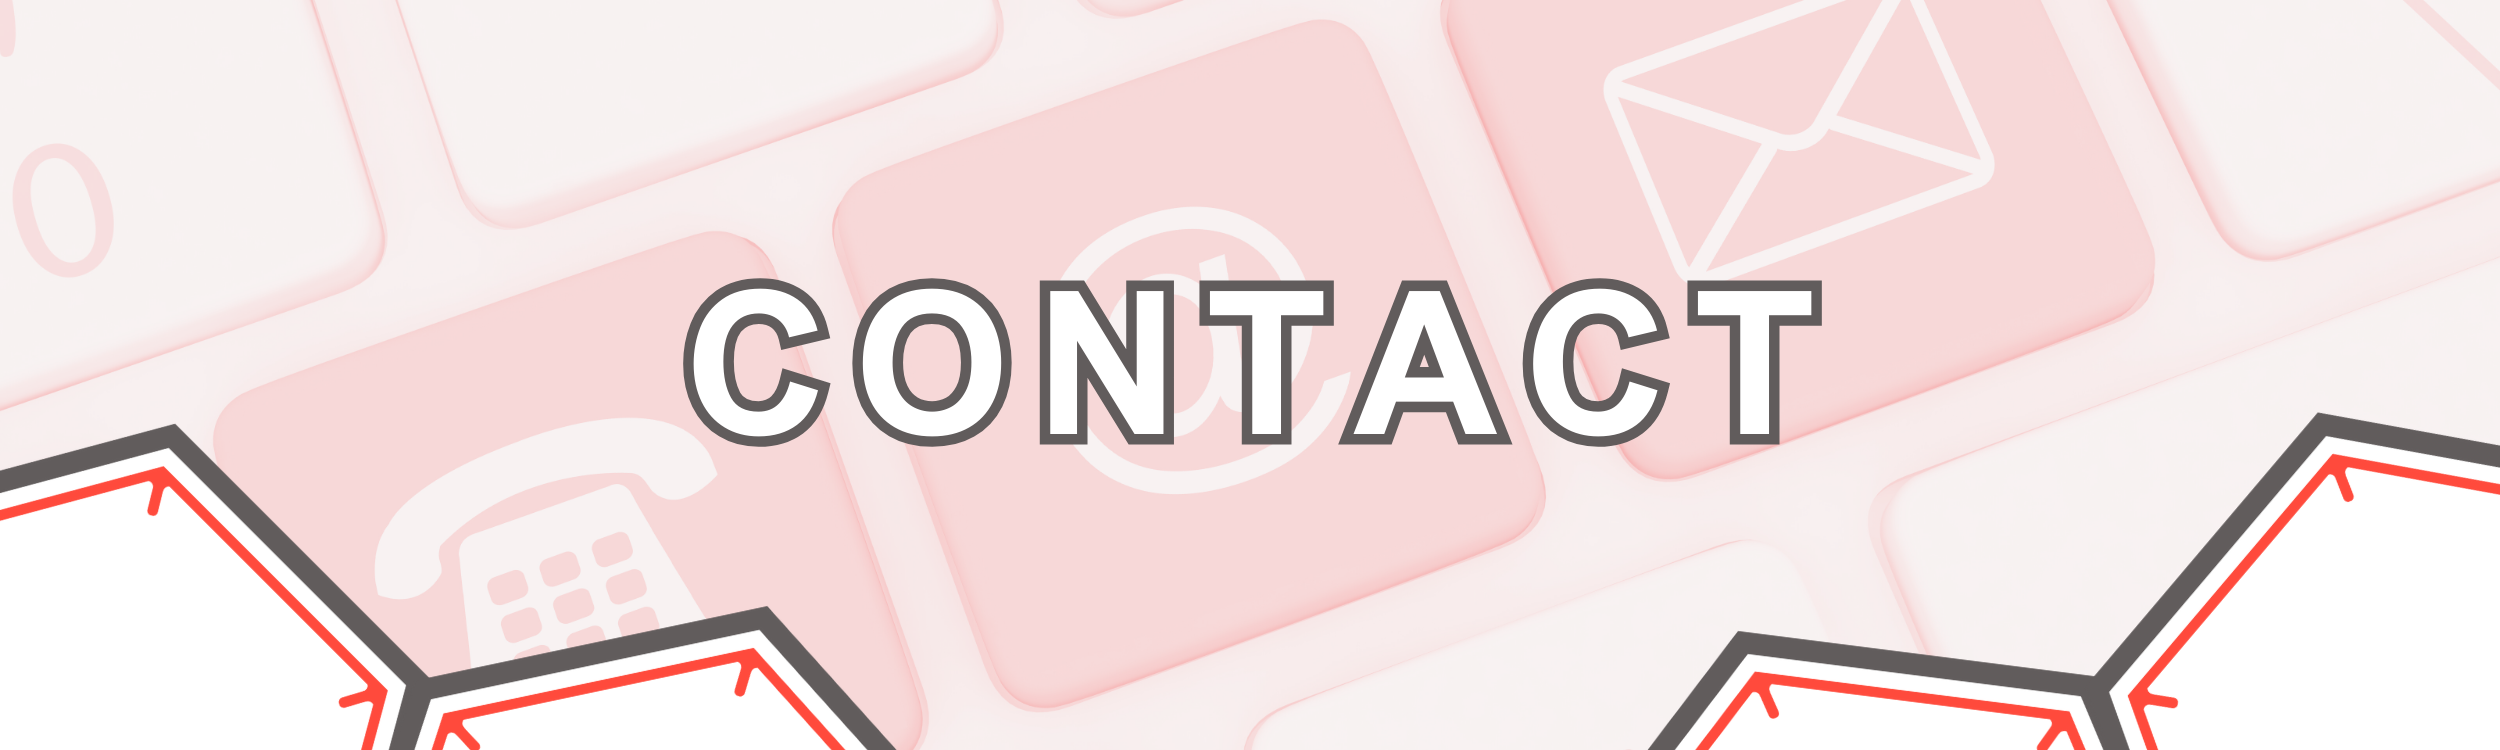
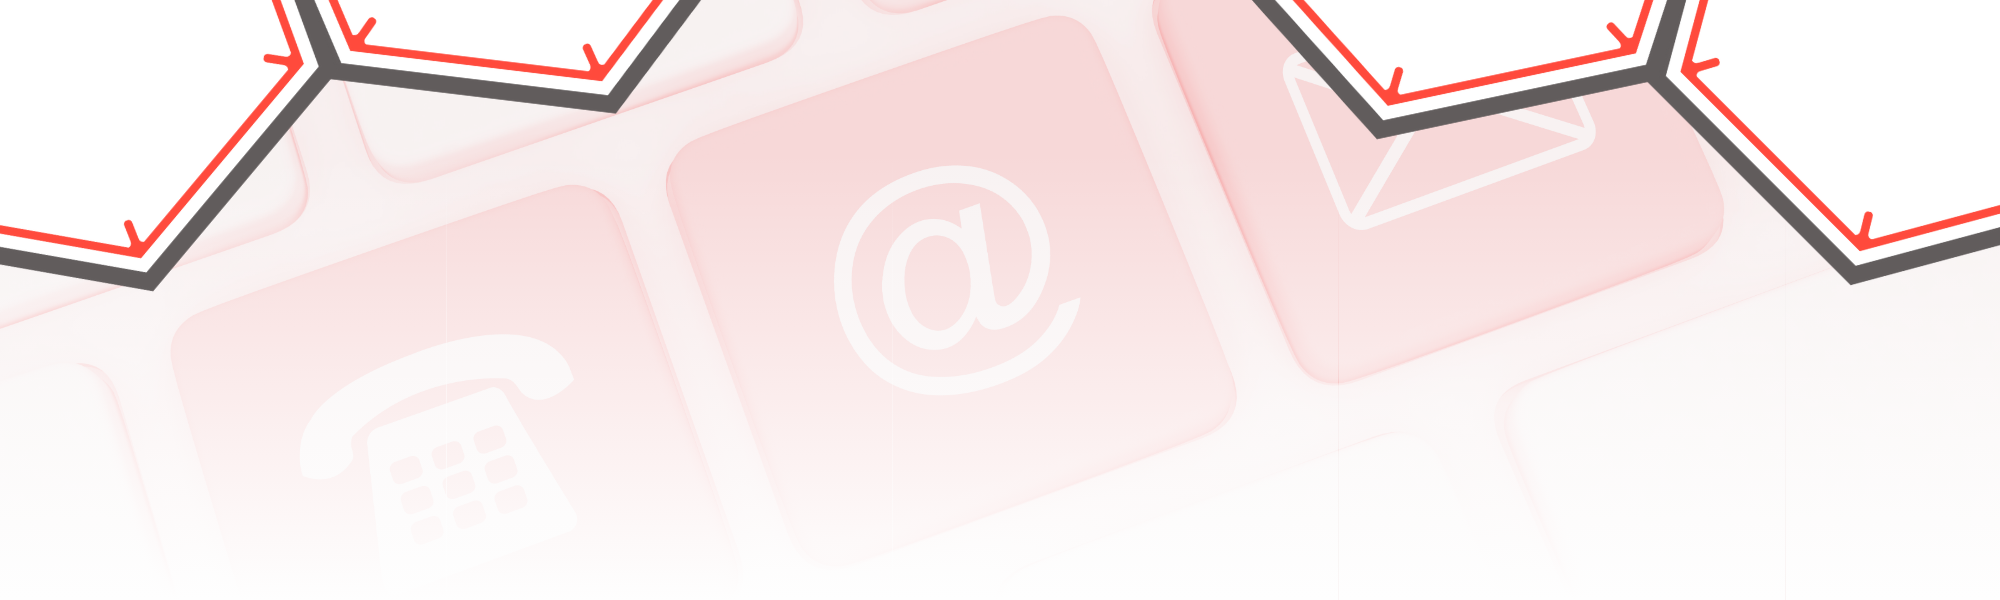
Version 1.0 page contact
Manque Responsive

diff --git a/pages/contact.html b/pages/contact.html
@@ -70,14 +70,17 @@
         <main>
             <div class="intro-contact">
                 <img src="../contenu/entete/entete-contact.png" alt="Visuel d'introduction">
+                <h1>CONTACT</h1>
             </div>
             <section id="main-contact">
                 <div class="intro-main">
-                    <p>Pour nous contacter, vous pouvez nous appeler, ou nous écrire un message, nous vous répondrons dans les plus brefs délais.</p>
+                    <!-- <p>Pour nous contacter, vous pouvez nous appeler, ou nous écrire un message, nous vous répondrons dans les plus brefs délais.</p> -->
                 </div>
                 <div class="main-container">
                     <div class="contact-direct">
                     <!-- <h2>Nos Coordonnées</h2> -->
+                        <h2>Nous Contacter</h2>
+                        <p>Vous pouvez nous appeler, ou nous écrire un message, nous vous répondrons dans les plus brefs délais.</p>
                         <div class="direct-mail">
                             <h4>📧 E-mail</h4>
                             <a href="mailto:contact@cvca-energies.fr" target="_blank">contact@cvca-energies.fr</a>
@@ -86,31 +89,56 @@
                             <h4>☎ Téléphone</h4>
                             <a href="tel:+33327876729" target="_blank">03.27.87.67.29</a>
                         </div>
-                        <img src="">
-                        <!-- <div class="direct-linkedin">
-                            <h4>Réseaux Sociaux</h4>
+                        <!-- <img src="../contenu/images/poste-travail.jpg"> -->
+                        <div class="direct-linkedin">
+                            <h4>🌐 LinkedIn</h4>
                             <a href="https://www.linkedin.com/company/cvca-%C3%A9nergies/">Envoyez-nous un message sur LinkedIn</a>
-                        </div> -->
+                        </div> 
+                        <img src="../contenu/images/hexa-contact.png">
                     </div>
                     <div class="contact-form">
                         <!-- <h2>Laissez-nous un message</h2> -->
                         <form method="get" action="">
-                            <label for="nom">Nom</label> : <input type="text" name="nom" id="nom">
-                            <label for="entreprise">Entreprise</label> : <input type="text" name="entreprise" id="entreprise">
-                            <label for="tel">Téléphone</label> : <input type="tel" name="tel" id="tel">
-                            <label for="mail">Mail</label> : <input type="email" name="mail" id="mail">
-                            <label for="message">Message</label> : <textarea name="message" id="message"></textarea>
-                            <button type="submit">Envoyer</button>
+                            <div>
+                                <label for="nom">Nom</label><input placeholder=" Nom " type="text" name="nom" id="nom" >
+                            </div>
+                            <div>
+                                <label for="prenom">Prénom</label><input placeholder=" Prénom" type="text" name="prenom" id="prenom" >
+                            </div>
+                            <div>
+                                <label for="entreprise">Entreprise</label>  <input placeholder=" Entreprise" type="text" name="entreprise" id="entreprise">
+                            </div>
+                            <div>
+                                <label for="tel">Téléphone</label>  <input placeholder=" Téléphone" type="tel" name="tel" id="tel">
+                            </div>
+                            <label for="mail">Mail</label>  <input placeholder=" Mail" type="email" name="mail" id="mail">
+                            <label for="object">Objet</label>  <input placeholder=" Objet" type="text" name="object" id="object">
+                            <label for="message">Message</label>  <textarea placeholder=" Message"name="message" id="message"></textarea>
+                            <button type="submit">Envoyer </button>
                         </form>
                     </div>
                 </div>
             </section>
-            <div class="contact-agences">
-                <h2>Retrouvez-nous</h2>
-                <iframe src="https://www.google.com/maps/embed?pb=!1m18!1m12!1m3!1d2549.6411743244244!2d3.1012154754759593!3d50.27995819962628!2m3!1f0!2f0!3f0!3m2!1i1024!2i768!4f13.1!3m3!1m2!1s0x47c2b64c6bc9f833%3A0xc67c4d7bf64d12a2!2s4%20Rue%20Georges%20Lefebvre%2C%2059151%20Arleux!5e0!3m2!1sfr!2sfr!4v1717576045884!5m2!1sfr!2sfr" width="600" height="450" style="border:0;" allowfullscreen="" loading="lazy" referrerpolicy="no-referrer-when-downgrade"></iframe>
-                <iframe src="https://www.google.com/maps/embed?pb=!1m18!1m12!1m3!1d2508.950300634206!2d2.343299375532777!3d51.03553864506596!2m3!1f0!2f0!3f0!3m2!1i1024!2i768!4f13.1!3m3!1m2!1s0x47dc8b9c0f34ed71%3A0xea1b6428ffd75c8c!2s27%20Rue%20Antoine%20Watteau%2C%2059430%20Dunkerque!5e0!3m2!1sfr!2sfr!4v1717576084654!5m2!1sfr!2sfr" width="600" height="450" style="border:0;" allowfullscreen="" loading="lazy" referrerpolicy="no-referrer-when-downgrade"></iframe>
-            </div>
-
+            <section id="agences-contact">
+                <div class="container">
+                    <div class="titre-agences">
+                        <h2>Venez nous rencontrer</h2>
+                        <p>Nos équipes vous accueillent du lundi au vendredi, de 8h00 à 12h00 et de 13h30 à 16h30.</p>
+                    </div>
+                    <div class="contact-agences">
+                        <div class="arleux">
+                            <h4>Agence Arleux</h4>
+                            <a href="https://www.google.fr/maps/place/CVCA+%C3%A9nergies/@50.2799582,3.1012155,17z/data=!4m15!1m8!3m7!1s0x47c2b64c6bc9f833:0xc67c4d7bf64d12a2!2s4+Rue+Georges+Lefebvre,+59151+Arleux!3b1!8m2!3d50.2799548!4d3.1037904!16s%2Fg%2F11c43wmrp7!3m5!1s0x47c2b7e8e572c827:0x312e920ad38ac0fc!8m2!3d50.2799398!4d3.1039257!16s%2Fg%2F11ryq5jbnp?entry=ttu" target="_blank">📍 4 rue Georges Lefevbre, 59151 Arleux</a>
+                            <iframe src="https://www.google.com/maps/embed?pb=!1m18!1m12!1m3!1d2549.6411743244244!2d3.1012154754759593!3d50.27995819962628!2m3!1f0!2f0!3f0!3m2!1i1024!2i768!4f13.1!3m3!1m2!1s0x47c2b64c6bc9f833%3A0xc67c4d7bf64d12a2!2s4%20Rue%20Georges%20Lefebvre%2C%2059151%20Arleux!5e0!3m2!1sfr!2sfr!4v1717576045884!5m2!1sfr!2sfr" width="600" height="450" style="border:0;" allowfullscreen="" loading="lazy" referrerpolicy="no-referrer-when-downgrade"></iframe>
+                        </div>
+                        <div class="dunkerque">
+                            <h4>Agence Dunkerque</h4>
+                            <a href="https://www.google.fr/maps/place/27+Rue+Antoine+Watteau,+59430+Dunkerque/@51.0355473,2.3274204,15z/data=!3m1!4b1!4m10!1m2!2m1!1s27+Rue+Antoine+Watteau!3m6!1s0x47dc8b9c0f34ed71:0xea1b6428ffd75c8c!8m2!3d51.0355353!4d2.3458743!15sChYyNyBSdWUgQW50b2luZSBXYXR0ZWF1kgERY29tcG91bmRfYnVpbGRpbmfgAQA!16s%2Fg%2F11c4cf3n1x?entry=ttu" target="_blank">📍 27 rue Antoine Watteau, 59140 Dunkerque</a>                       
+                            <iframe src="https://www.google.com/maps/embed?pb=!1m18!1m12!1m3!1d2508.950300634206!2d2.343299375532777!3d51.03553864506596!2m3!1f0!2f0!3f0!3m2!1i1024!2i768!4f13.1!3m3!1m2!1s0x47dc8b9c0f34ed71%3A0xea1b6428ffd75c8c!2s27%20Rue%20Antoine%20Watteau%2C%2059430%20Dunkerque!5e0!3m2!1sfr!2sfr!4v1717576084654!5m2!1sfr!2sfr" width="600" height="450" style="border:0;" allowfullscreen="" loading="lazy" referrerpolicy="no-referrer-when-downgrade"></iframe>
+                        </div>
+                    </div>
+                </div>
+            </section>
         </main>
         <footer>
             <div class="footer-top">

diff --git a/style/contact.css b/style/contact.css
@@ -1,9 +1,7 @@
 
 *{
     color:#615c5c;
-}
-.contact-agences{
-    display: flex;
+    font-family: Arial, Helvetica, sans-serif;
 }
 
 main{
@@ -15,24 +13,52 @@ main{
 
 h2{
     font-size: 2.5em;
-    color : #ff4a3c
+    color : #ff4a3c;
+    padding-top: 0;
+    margin-top: 0;
 }
 
 /*Introduction*/
 .intro-contact img{
     width: 100%;
-    rotate: 180deg;
+    height: 100%;
+    /* rotate: 180deg; */
     z-index: 0;
 }
+
+.intro-contact{
+    display: flex;
+    flex-direction: row;
+    align-items: center;
+    justify-content: center;
+    /* height: 300px; */
+}
+.intro-contact h1{
+    font-size: 100px;
+    position: absolute;
+    z-index:1;
+    color: white;
+      text-shadow: 
+      -1px -1px 2px #615c5c,  
+      1px -1px 2px #615c5c,
+      -1px 1px 2px #615c5c,
+      1px 1px 2px #615c5c;
+}
+
+
+
 
 /*Main Contact*/
 #main-contact{
     display: flex;
     flex-direction: column;
     align-items: center;
-    justify-content: space-between;
-    padding: 20px 100px;
+    justify-content: flex-start;
+    gap: 20px;
     height: fit-content;
+    width: 100%;
+    background-color: #fefefe;
+    padding-bottom: 50px;
 }
 
 .intro-main{
@@ -44,24 +70,26 @@ h2{
     display: flex;
     flex-direction: row;
     justify-content: space-around;
+    width: 90%;
+    gap:10%;
 }
 
 /*Coordonées*/
 .contact-direct{
     width: 40%;
-    margin: 0px 70px 50px 50px;
+    padding: 0px 30px 50px 30px;
 }
  .contact-direct a {
     text-decoration: none;
     color : #615c5c;
     width: fit-content;
-    align-self: flex-end; 
-    font-size: 17px;
+    align-self: flex-start; 
+    margin-left: 3em;
+    font-size: 1.2em;
 }
 
  .contact-direct div{
-    border-radius: 15px;
-    border: 1px solid #615c5c;
+    border-radius: 5px;
     margin: 10px;
     padding: 15px 10px 15px 0px; 
     display: flex;
@@ -74,9 +102,139 @@ h2{
     font-size: 18px;
  }
 
+ .contact-direct img {
+    width: 20em;
+    position: absolute;
+    top: 850px;
+    left: 530px; 
+ }
+
+ .contact-direct p{
+    font-size: 1.2em;
+    margin-bottom: 40px;
+ }
 
 /*Message*/
 .contact-form{
-    width: 80%;
-    padding: 0px 30px 50px 30px;
+    width: 50%;
+    padding: 0px 30px 50px auto;
+
+}
+
+.contact-form form{
+    display: flex;
+    flex-direction: row;
+    flex-wrap: wrap;
+    gap: 5%;
+    max-width: 100%;
+    margin-left: auto;
+}
+
+.contact-form form div{
+    width: 47.5%;
+}
+
+.contact-form form input{
+    width: 100%;
+    height: 3.5em;
+    margin-top: 0.5em;
+    margin-bottom: 1.5em;
+    border: none;
+    outline: none;
+    border-radius: 5px;;
+    border: 1px solid rgba(97,92,92,0.3);
+    transition: 0.2s;
+    color: rgba(97,92,92,0.3);
+    padding: 0px 0;
+}
+
+.contact-form form textarea{
+    width: 100%;
+    height: 10em;
+    margin-top: 0.5em;
+    margin-bottom: 1.5em;
+    border: none;
+    outline: none;
+    border-radius: 5px;;
+    border: 1px solid rgba(97,92,92,0.3);
+    transition: 0.2s;
+    color: rgba(97,92,92,0.3);
+    padding: 10px 0px;
+    resize: none;
+}
+
+.contact-form label{
+    font-size: 1.2em;
+    font-weight: 510;
+}
+
+.contact-form button{
+    justify-self: center;
+    margin-left: auto;
+    font-family: Arial, Helvetica, sans-serif;
+    font-size: 0.8em;
+    font-weight: 600;
+    color:#fefefe;
+    background-color: #615c5c;
+    border: none;
+    width: 25%;
+    height: 45px;
+}
+
+/*Nos Agences*/
+
+#agences-contact{
+    width: 100%;
+    padding: 50px;
+    height: 90vh;
+    display: flex;
+    align-items: center;
+    justify-content: center;
+}
+
+#agences-contact .container{
+    display: flex;
+    flex-direction: column;
+    justify-content: space-around;
+    width: 90%;
+    gap:10%;
+}
+
+.contact-agences{
+    width: 100%;
+    display: flex;
+    flex-direction: row;
+    align-items: center;
+    justify-content: space-around;
+}
+
+.contact-agences div {
+    display: flex;
+    flex-direction: column;
+    align-items: center;
+    margin-top: 30px;
+}
+
+.contact-agences div h4{
+    font-size: 1.5em;
+}
+
+
+.contact-agences div a{
+    margin-bottom: 30px;
+    font-size: 1em;
+}
+
+.titre-agences{
+    padding-left: 30px;
+}
+
+.titre-agences p{
+    font-size: 1.2em;
+    margin-bottom: 20px;
+}
+
+.contact-agences div{
+    display: flex;
+    flex-direction: column;
 }

diff --git a/style/style.css b/style/style.css
@@ -24,7 +24,7 @@ nav{
     margin: 0;
     background: #fafafa;
     box-shadow: inset 0px -1px 0px #c5c5c6;
-    z-index: 1;
+    z-index: 10;
 }
 
 nav a{
